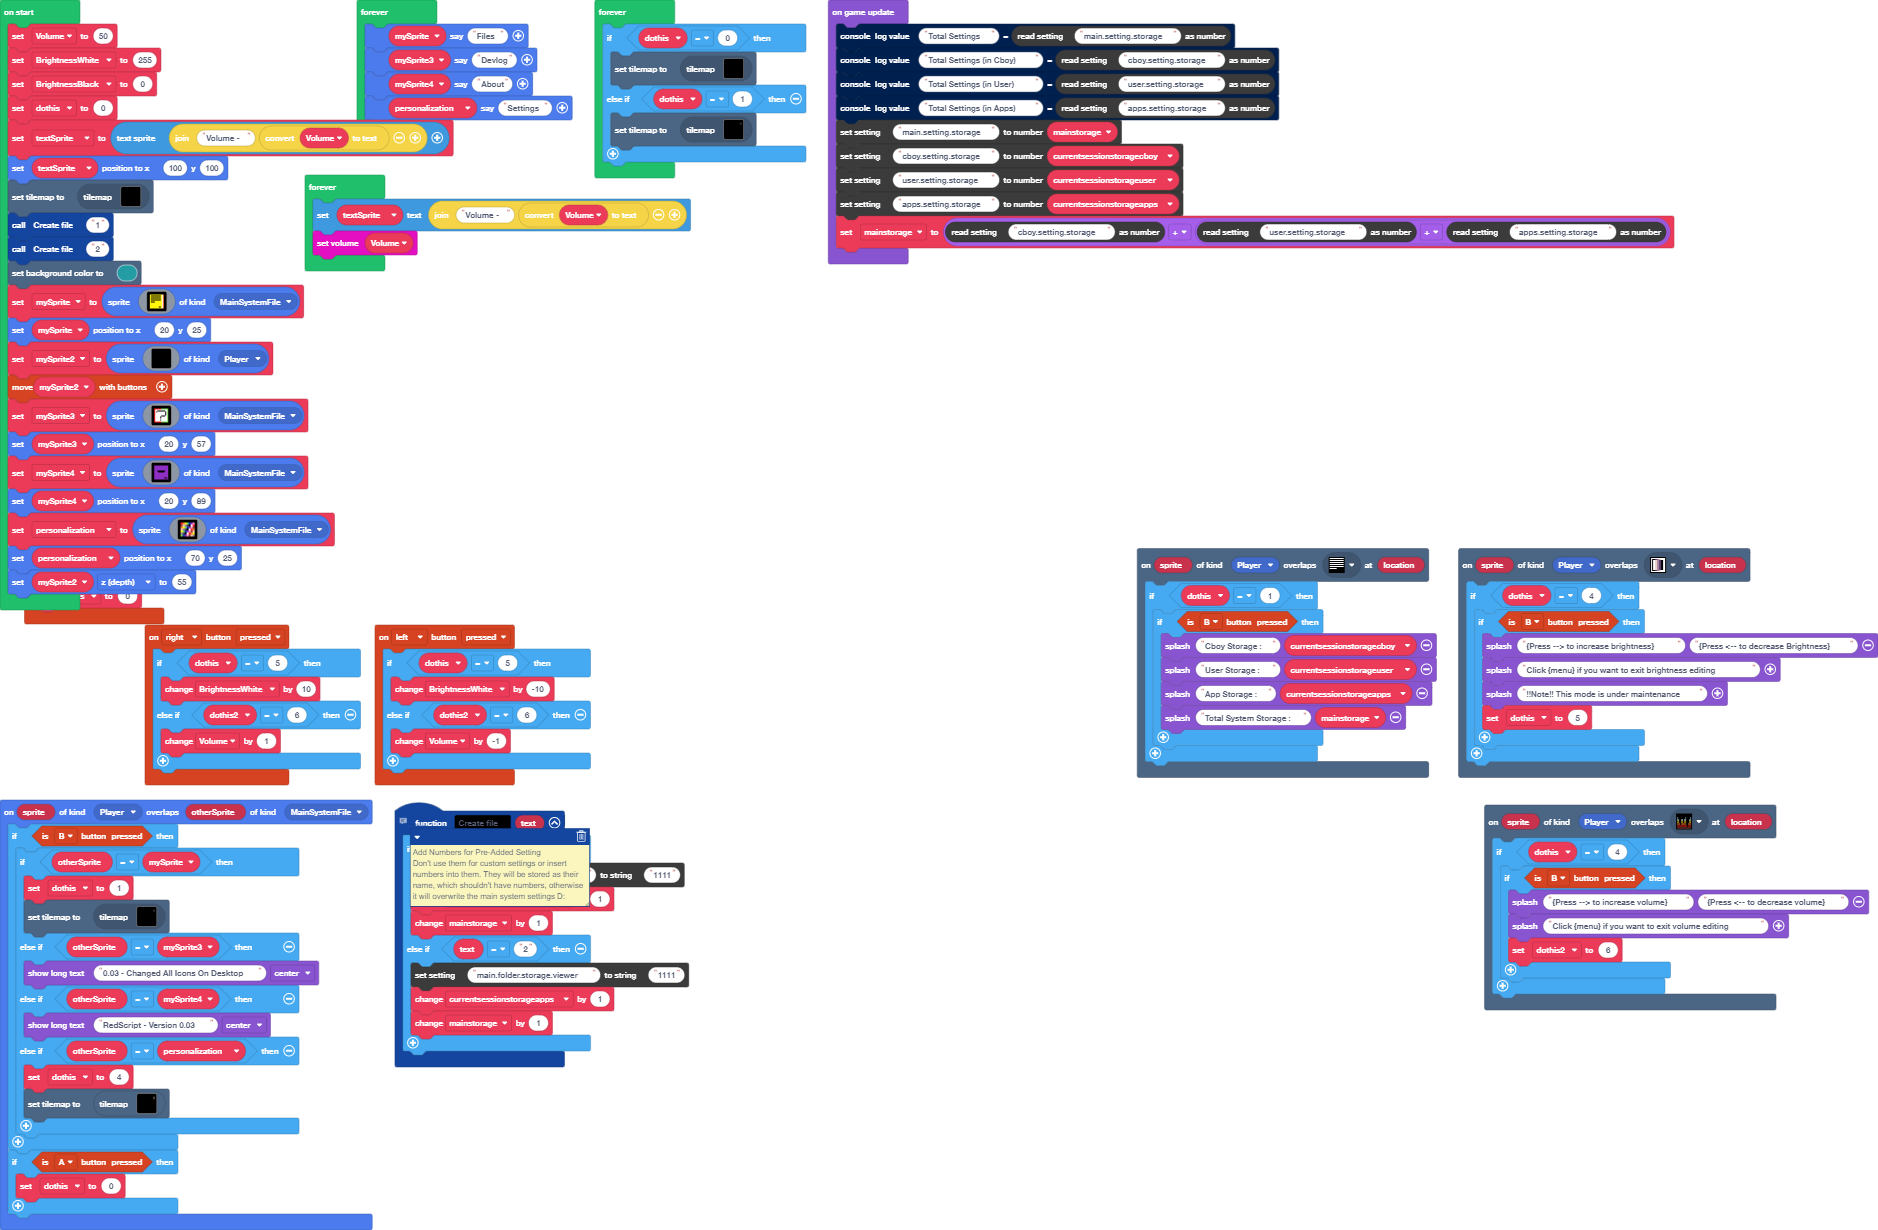
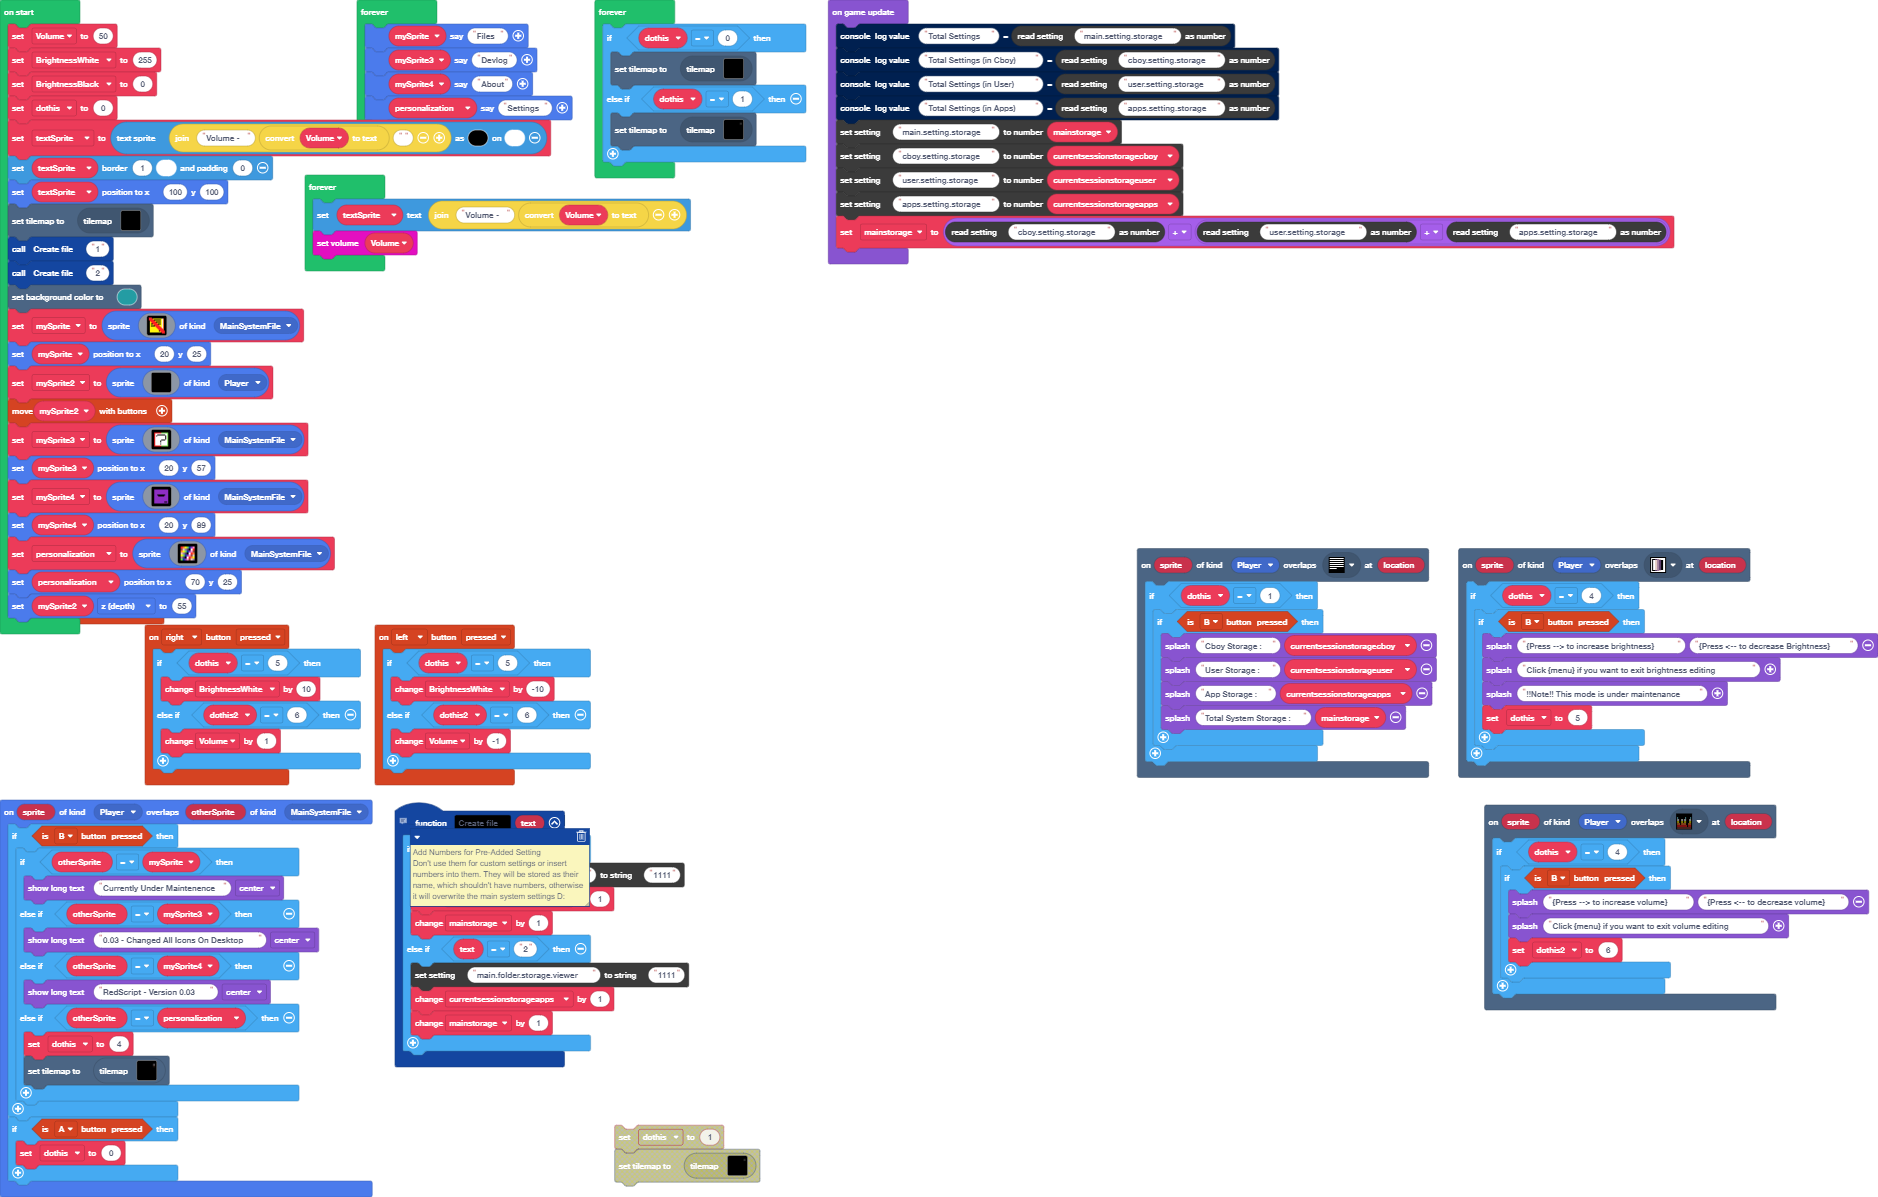
Preparing for the Next build

Changed region(s): [[0.0, 0.0, 0.8956, 0.9891], [0.5868, 0.4327, 1.0, 0.8655], [0.3088, 0.9273, 0.4324, 0.9891]]

diff --git a/main.ts b/main.ts
@@ -37,8 +37,7 @@ function Create_file (text: string) {
 sprites.onOverlap(SpriteKind.Player, SpriteKind.MainSystemFile, function (sprite, otherSprite) {
     if (controller.B.isPressed()) {
         if (otherSprite == mySprite) {
-            dothis = 1
-            tiles.setCurrentTilemap(tilemap`level13`)
+            game.showLongText("Currently Under Maintenence", DialogLayout.Center)
         } else if (otherSprite == mySprite3) {
             game.showLongText("0.03 - Changed All Icons On Desktop", DialogLayout.Center)
         } else if (otherSprite == mySprite4) {
@@ -92,29 +91,30 @@ let Volume = 50
 let BrightnessWhite = 255
 let BrightnessBlack = 0
 dothis = 0
-let textSprite = textsprite.create("Volume - " + convertToText(Volume))
+let textSprite = textsprite.create("Volume - " + convertToText(Volume) + "", 1, 15)
+textSprite.setBorder(1, 1, 0)
 textSprite.setPosition(100, 100)
 tiles.setCurrentTilemap(tilemap`level4`)
 Create_file("1")
 Create_file("2")
 scene.setBackgroundColor(6)
 mySprite = sprites.create(img`
-    . . . . . . . . . . . . . . . . 
-    . 5 5 5 5 5 5 5 5 5 5 5 5 1 4 . 
-    . 5 f f f f f f f f f f 5 1 4 . 
-    . 5 5 5 5 5 5 5 5 5 5 5 5 1 4 . 
-    . 5 f f f f f f f f f f 5 1 4 . 
-    . 5 5 5 5 5 5 5 5 5 5 5 5 1 4 . 
-    . 5 f f f f f f f f f f 5 1 4 . 
-    . 5 5 5 5 5 5 5 5 5 5 5 5 1 4 . 
-    . 5 f f f f 5 5 5 5 5 5 5 1 4 . 
-    . 5 5 5 5 5 5 5 5 5 5 5 5 1 4 . 
-    . 5 5 5 5 5 5 5 5 5 5 5 5 1 4 . 
-    . 5 5 5 5 5 5 5 5 5 5 5 5 1 4 . 
-    . 5 5 5 5 5 5 5 5 5 5 5 5 1 4 . 
-    . 5 5 5 5 5 5 5 5 5 f f 5 1 4 . 
-    . 5 5 5 5 5 5 5 5 5 5 5 5 1 4 . 
-    . . . . . . . . . . . . . . . . 
+    2 2 2 . . . . . . . . . . . . . 
+    2 2 2 2 5 5 5 5 5 5 5 5 5 1 4 . 
+    2 2 2 2 2 f f f f f f f 5 1 4 . 
+    . 2 2 2 2 2 5 5 5 5 5 5 5 1 4 . 
+    . 5 2 2 2 2 2 f f f f f 5 1 4 . 
+    . 5 5 2 2 2 2 2 5 5 5 5 5 1 4 . 
+    . 5 f f 2 2 2 2 2 f f f 5 1 4 . 
+    . 5 5 5 5 2 2 2 2 2 5 5 5 1 4 . 
+    . 5 f f f f 2 2 2 2 2 5 5 1 4 . 
+    . 5 5 5 5 5 5 2 2 2 2 2 5 1 4 . 
+    . 5 5 5 5 5 5 5 2 2 2 2 2 1 4 . 
+    . 5 5 5 5 5 5 5 5 2 2 2 2 2 4 . 
+    . 5 5 5 5 5 5 5 5 5 2 2 2 2 2 . 
+    . 5 5 5 5 5 5 5 5 5 f 2 2 2 2 2 
+    . 5 5 5 5 5 5 5 5 5 5 5 2 2 2 2 
+    . . . . . . . . . . . . . 2 2 2 
     `, SpriteKind.MainSystemFile)
 mySprite.setPosition(20, 25)
 let mySprite2 = sprites.create(img`
